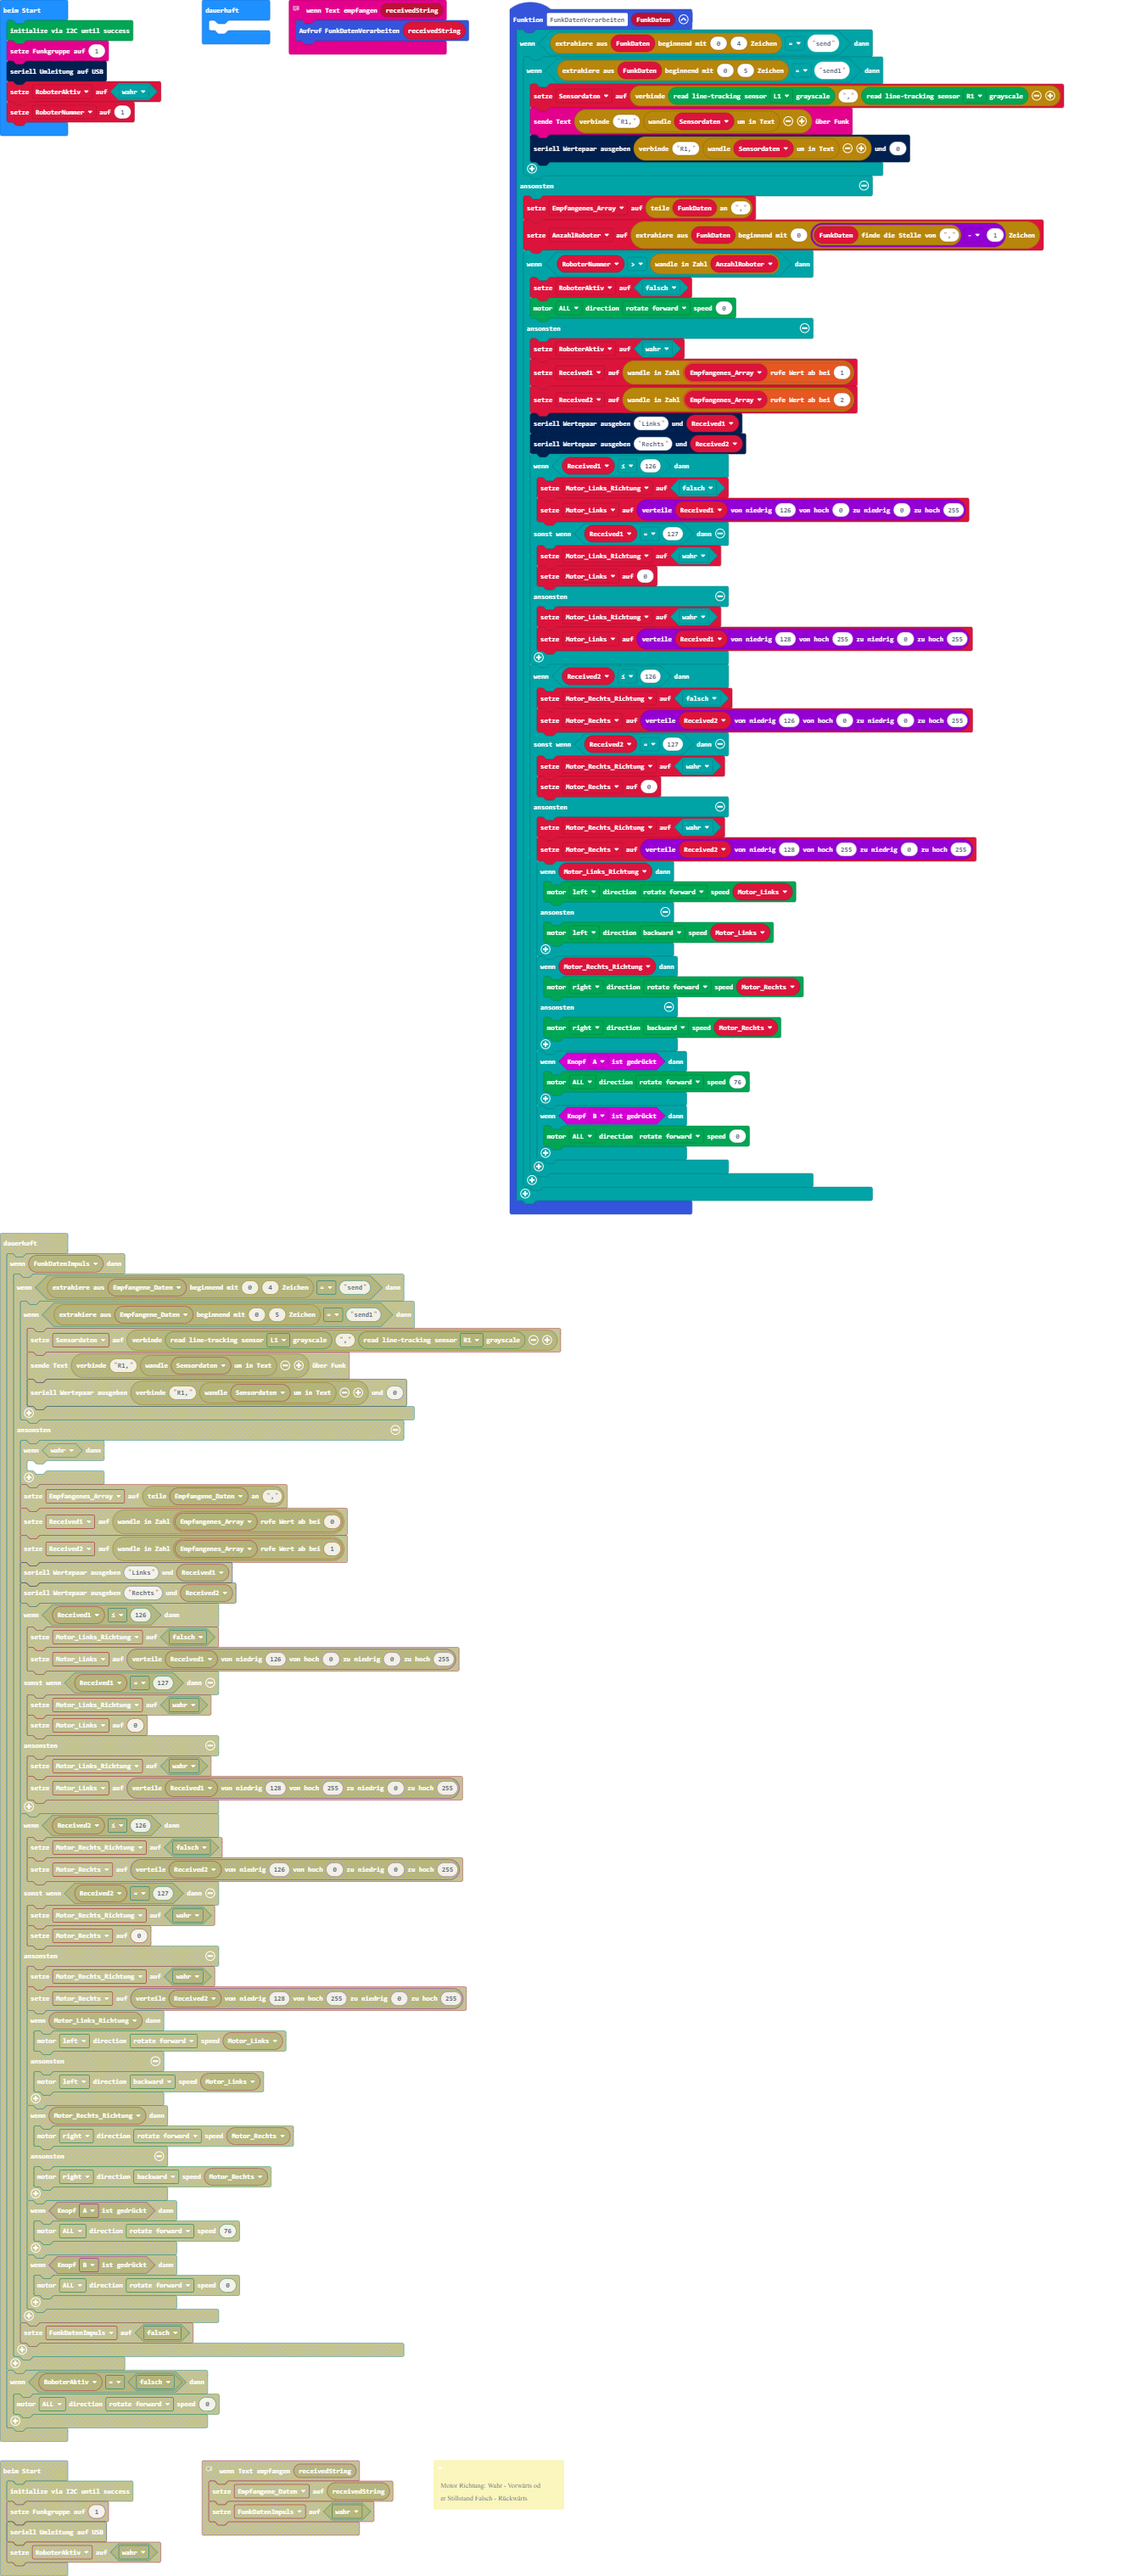
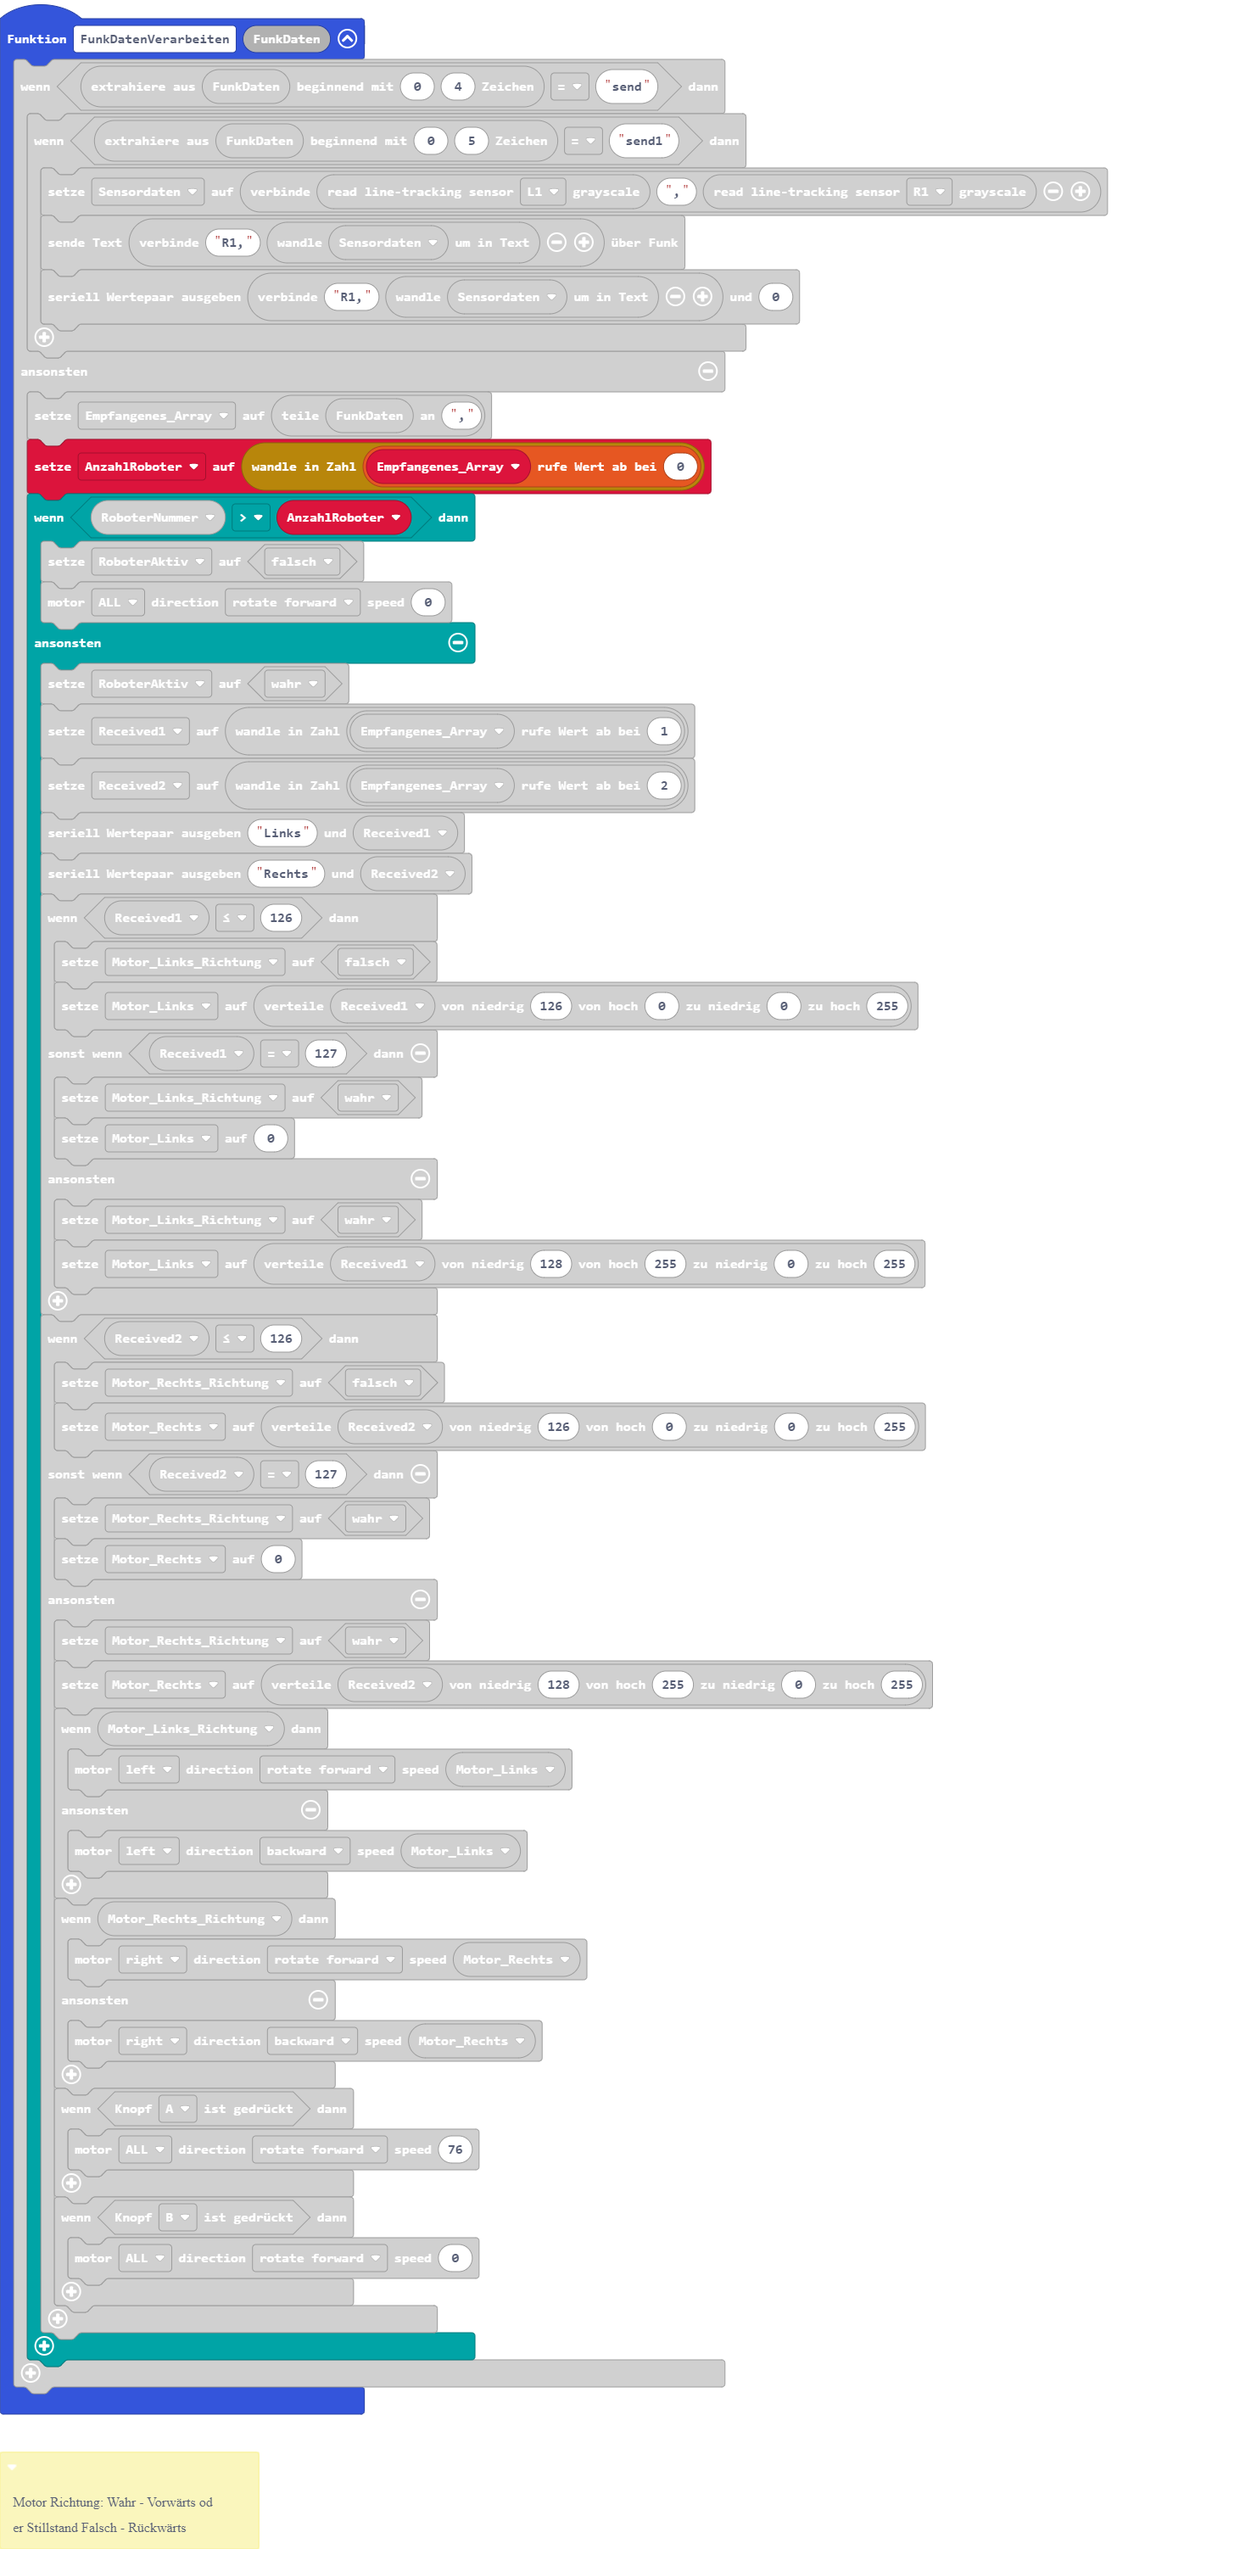
Aktualisiere main.blocks, main.ts

diff --git a/main.ts b/main.ts
@@ -7,8 +7,8 @@ function FunkDatenVerarbeiten (FunkDaten: string) {
         }
     } else {
         Empfangenes_Array = FunkDaten.split(",")
-        AnzahlRoboter = FunkDaten.substr(0, FunkDaten.indexOf(",") - 1)
-        if (RoboterNummer > parseFloat(AnzahlRoboter)) {
+        AnzahlRoboter = parseFloat(Empfangenes_Array[0])
+        if (RoboterNummer > AnzahlRoboter) {
             RoboterAktiv = false
             DFRobotMaqueenPlus.mototRun(Motors.ALL, Dir.CW, 0)
         } else {
@@ -73,7 +73,7 @@ let Motor_Links = 0
 let Motor_Links_Richtung = false
 let Received2 = 0
 let Received1 = 0
-let AnzahlRoboter = ""
+let AnzahlRoboter = 0
 let Empfangenes_Array: string[] = []
 let Sensordaten = ""
 let RoboterNummer = 0
